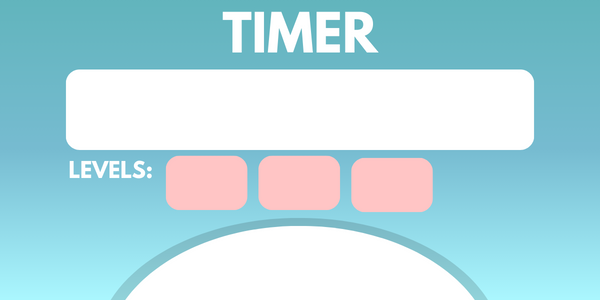
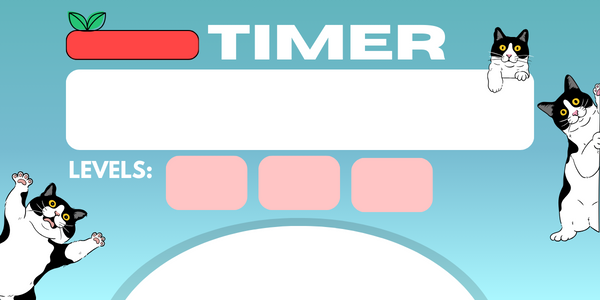
final timer

diff --git a/pomodoro.py b/pomodoro.py
@@ -34,6 +34,7 @@ breaktime=False
 bg=Label(root, image=bg_img)
 bg.pack()
 
+
 #time tracker
 hrs = StringVar(root, value='00')
 hrs.set("00")
@@ -106,19 +107,24 @@ def study_mode():
     mins.set('00')
     sec.set('00')
     
+def studynotigone():
+    study_noti.destroy()
 
+    
 def timer():
     global time_run, current_time, breaktime,short_breaktime, long_breaktime, cycle, study_mode
    
     total_time = int(hrs.get()) * 3600 + int(mins.get()) * 60 + int(sec.get())
+    cycletext=Label(root, text='ROUND '+ str(cycle), font='comfortaa 12 bold', background='#FF4545')
+    cycletext.place(x='80', y='33')
     
     if total_time > 0:
-        
         total_time -= 1
         hrs.set(str(total_time // 3600).zfill(1))
         mins.set(str((total_time % 3600) // 60).zfill(1))
         sec.set(str(total_time % 60).zfill(1))
         current_time= root.after(1000, timer) #starts countdown  
+        
            
     
     
@@ -137,34 +143,28 @@ def timer():
             break_noti.iconbitmap(r'./images/break_icon.ico')
             break_notibg=Label(break_noti,image=break_notiimg)
             break_notibg.pack()        
-            break_continue=Button(break_noti, text='Proceed', font=('arial 18 bold'), bg='white', bd=0)
-            break_continue.place(x='450', y='350')
             break_continuebutton=Button(break_noti, text='PROCEED', font=('calibri 12 bold'), bg='white', bd=1, command=break_mode)
             break_continuebutton.place(x='400', y='250')
         else:
-            study_noti
+            global study_noti, studynotiimg 
             breaktime=False
             study_mode()
+                
+            studynotiimg=PhotoImage(file=r'C:\Users\USER\Projects\Meowstermind\STUDY_NOTI.png')
+            study_noti = Toplevel()
+            study_noti.title(f'Study Time!')
+            study_noti.geometry('500x300')
+            study_noti.resizable(False,False)
+            study_noti.iconbitmap(r'./images/break_icon.ico')
+            study_notibg=Label(study_noti,image=studynotiimg)
+            study_notibg.pack()
+            studycontinuebutton=Button(study_noti, text='PROCEED', font=('calibri 12 bold'), bg='white', bd=1, command=studynotigone)
+            studycontinuebutton.place(x='400', y='250')
             
-def default_timer():
-    global current_time
-    hrs.set('00')
-    mins.set('00')
-    sec.set('00')
+            
 
 
-def study_noti():    
-        studynotiimg=PhotoImage(file=r'C:\Users\USER\Projects\Meowstermind\STUDY_NOTI.png')
-        study_noti = Toplevel()
-        study_noti.title(f'Break Time!')
-        study_noti.geometry('500x300')
-        study_noti.resizable(False,False)
-        study_noti.iconbitmap(r'./images/break_icon.ico')
-        study_notibg=Label(break_noti,image=studynotiimg)
-        study_notibg.pack()        
-        study_continuebutton=Button(break_noti, text='PROCEED', font=('calibri 12 bold'), bg='white', bd=1, command=study_noti)
-        study_continuebutton.place(x='400', y='250')
-    
+
 
 def is_breaktime():
     global short_breaktime, long_breaktime
@@ -243,6 +243,7 @@ workbbutton=Button(root, image=moolan, bg=pink, font='comfortaa 18 bold', border
 workbbutton.place(x='270',y=' 160')
 workcbutton=Button(root, image=maria, bg=pink, font='comfortaa 18 bold', borderwidth=0, command=workc)
 workcbutton.place(x='365',y=' 160')
+
 
 
 
